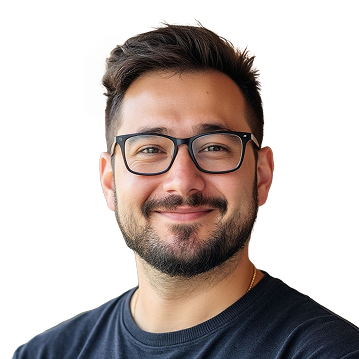
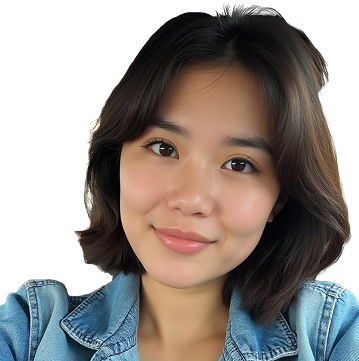
updated links

diff --git a/src/app/layout/footer/footer.component.html b/src/app/layout/footer/footer.component.html
@@ -14,35 +14,34 @@
                 <li><a href="#about-us">About Us</a></li>
                 <li><a href="#services">Services</a></li>
                 <li><a href="#our-projects">Our Works</a></li>
-                <li><a href="#">Reviews</a></li>
-                <li><a href="#">Reviews</a></li>
+                <li><a href="#reviews">Reviews</a></li>
             </ul>
         </div>
         <div class="footer-column">
             <h3>Projects</h3>
             <ul>
-                <li><a href="#">Sri Lanka Cricket</a></li>
-                <li><a href="#">OceanWatch</a></li>
-                <li><a href="#">SLBF</a></li>
+                <li><a href="https://vms.mycricket.com.lk" target="_blank">Sri Lanka Cricket</a></li>
+                <li><a href="https://www.oceanwatch.lk" target="_blank">OceanWatch</a></li>
+                <li><a href="javascript:void(0)" target="_blank">SLBF</a></li>
             </ul>
         </div>
         <div class="footer-column">
             <h3>Company</h3>
             <ul>
-                <li><a href="#">Blog</a></li>
-                <li><a href="#">Contact Us</a></li>
-                <li><a href="#">Pricing</a></li>
-                <li><a href="#">Privacy policy</a></li>
-                <li><a href="#">Solutions library</a></li>
+                <li><a href="javascript:void(0)">Blog</a></li>
+                <li><a href="#contact-us">Contact Us</a></li>
+                <li><a href="javascript:void(0)">Pricing</a></li>
+                <li><a href="javascript:void(0)">Privacy policy</a></li>
+                <li><a href="javascript:void(0)">Solutions library</a></li>
             </ul>
         </div>
         <div class="footer-column">
             <h3>Follow Us</h3>
             <div class="social-icons">
-                <a href="#"><fa-icon [icon]="faFacebookF"></fa-icon></a>
-                <a href="#"><fa-icon [icon]="faInstagram"></fa-icon></a>
-                <a href="#"><fa-icon [icon]="faTiktok"></fa-icon></a>
-                <a href="#"><fa-icon [icon]="faLinkedin"></fa-icon></a>
+                <a href="javascript:void(0)"><fa-icon [icon]="faFacebookF"></fa-icon></a>
+                <a href="javascript:void(0)"><fa-icon [icon]="faInstagram"></fa-icon></a>
+                <a href="javascript:void(0)"><fa-icon [icon]="faTiktok"></fa-icon></a>
+                <a href="javascript:void(0)"><fa-icon [icon]="faLinkedin"></fa-icon></a>
             </div>
         </div>
     </div>

diff --git a/src/app/pages/careers/careers.component.html b/src/app/pages/careers/careers.component.html
@@ -3,7 +3,7 @@
     <div></div>
     <div>
         <div>
-            <div class="services-txt poppins-regular">Services</div>
+            <div class="services-txt poppins-regular">Careers</div>
             <div class="header">
                 <h1 class="poppins-bold">
                     AI-Driven Digital Solutions for<br />
@@ -27,9 +27,9 @@
             </div>
             }
         </div>
-        <div class="view-more">
+        <!-- <div class="view-more">
             <p class="poppins-regular">View more ↓</p>
-        </div>
+        </div> -->
     </div>
     <div></div>
 </div>
@@ -48,12 +48,12 @@
                     that matters.
                 </h1>
             </div>
-            <div>
+            <!-- <div>
                 <button class="btn-2">
                     See More
                     <mat-icon aria-hidden="false" fontIcon="north_east"> </mat-icon>
                 </button>
-            </div>
+            </div> -->
         </div>
 
         <div class="projects">
@@ -64,8 +64,14 @@
                         <!-- <img class="logo" src="/assets/images/slc-logo.png" alt="" /> -->
                         <h2 class="poppins-semibold">{{ vacancy.title }}</h2>
                     </div>
-                    <a href="https://vms.mycricket.com.lk" target="_blank">
-                        <div class="icon-container-2"><mat-icon style="color: #c0c0c0" aria-hidden="false" fontIcon="north_east"></mat-icon></div>
+                    <a href="javascript:void(0)" target="_blank">
+                        <!-- <div class="icon-container-2"><mat-icon style="color: #c0c0c0" aria-hidden="false" fontIcon="north_east"></mat-icon></div> -->
+                        <div>
+                            <button class="btn-2">
+                                Apply
+                                <mat-icon aria-hidden="false" fontIcon="north_east"> </mat-icon>
+                            </button>
+                        </div>
                     </a>
                 </div>
                 <div>

diff --git a/src/app/pages/careers/careers.component.ts b/src/app/pages/careers/careers.component.ts
@@ -29,26 +29,26 @@ export class CareersComponent {
         this.teamMembers = [
             {
                 image: '/assets/images/careers/team-1.png',
+                name: 'Divya Perera',
+                position: 'Head of Digital'
+            },
+            {
+                image: '/assets/images/careers/team-2.png',
                 name: 'Malith Weeramuni',
                 position: 'Senior UI/UX Design Engineer'
             },
             {
-                image: '/assets/images/careers/team-1.png',
-                name: 'Malith Weeramuni',
-                position: 'Senior UI/UX Design Engineer'
+                image: '/assets/images/careers/team-3.png',
+                name: 'Pamod Peiris',
+                position: 'Software Engineer'
             },
             {
-                image: '/assets/images/careers/team-1.png',
-                name: 'Malith Weeramuni',
-                position: 'Senior UI/UX Design Engineer'
+                image: '/assets/images/careers/team-4.png',
+                name: 'Keheliya Manathunga',
+                position: 'Frontend Engineer'
             },
             {
-                image: '/assets/images/careers/team-1.png',
-                name: 'Malith Weeramuni',
-                position: 'Senior UI/UX Design Engineer'
-            },
-            {
-                image: '/assets/images/careers/team-1.png',
+                image: '/assets/images/careers/team-5.png',
                 name: 'Malith Weeramuni',
                 position: 'Senior UI/UX Design Engineer'
             },

diff --git a/src/app/pages/careers/careers.component.scss b/src/app/pages/careers/careers.component.scss
@@ -143,7 +143,7 @@ h1 {
     .project {
         border: 2px solid #003dad;
         border-radius: 32px;
-        padding: 3rem;
+        padding: 2rem;
     }
     > div {
         width: 100%;
@@ -166,7 +166,7 @@ h1 {
     }
     h2 {
         margin-bottom: 0;
-        font-size: 24px;
+        font-size: 28px;
         line-height: 32px;
         color: #ffffff;
     }
@@ -175,6 +175,7 @@ h1 {
         height: 96px;
     }
     p {
+        margin-top: 0;
         font-size: 16px;
         color: #ffffff;
     }
@@ -196,12 +197,12 @@ h1 {
             justify-content: center;
             align-items: center;
             margin: 0 10px 10px 0;
-            padding: 12px 24px;
+            padding: 5px 17px;
             border: 1px solid #6f6f6f;
             border-radius: 25px;
             background-color: transparent;
             color: #6f6f6f;
-            font-size: 14px;
+            font-size: 12px;
             font-weight: 600;
             cursor: pointer;
             transition: 0.3s;

diff --git a/src/app/layout/header/header.component.html b/src/app/layout/header/header.component.html
@@ -17,7 +17,7 @@
             <li><a routerLink="/careers">Careers</a></li>
         </ul>
         <!-- Contact Button -->
-        <a href="#" class="contact-btn">Contact us</a>
+        <a href="#contact-us" class="contact-btn">Contact us</a>
 
         <!-- Hamburger Menu -->
         <div class="hamburger" (click)="openNav()">

diff --git a/src/app/layout/reviews/reviews.component.html b/src/app/layout/reviews/reviews.component.html
@@ -1,4 +1,4 @@
-<section class="reviews">
+<section id="reviews" class="reviews">
     <div></div>
     <div style="overflow: hidden;">
         <div class="reviews-txt poppins-regular">Reviews</div>

diff --git a/src/app/layout/contact-form/contact-form.component.html b/src/app/layout/contact-form/contact-form.component.html
@@ -1,4 +1,4 @@
-<section class="reviews">
+<section id="contact-us" class="reviews">
     <div></div>
 
     <div style="overflow: hidden">
